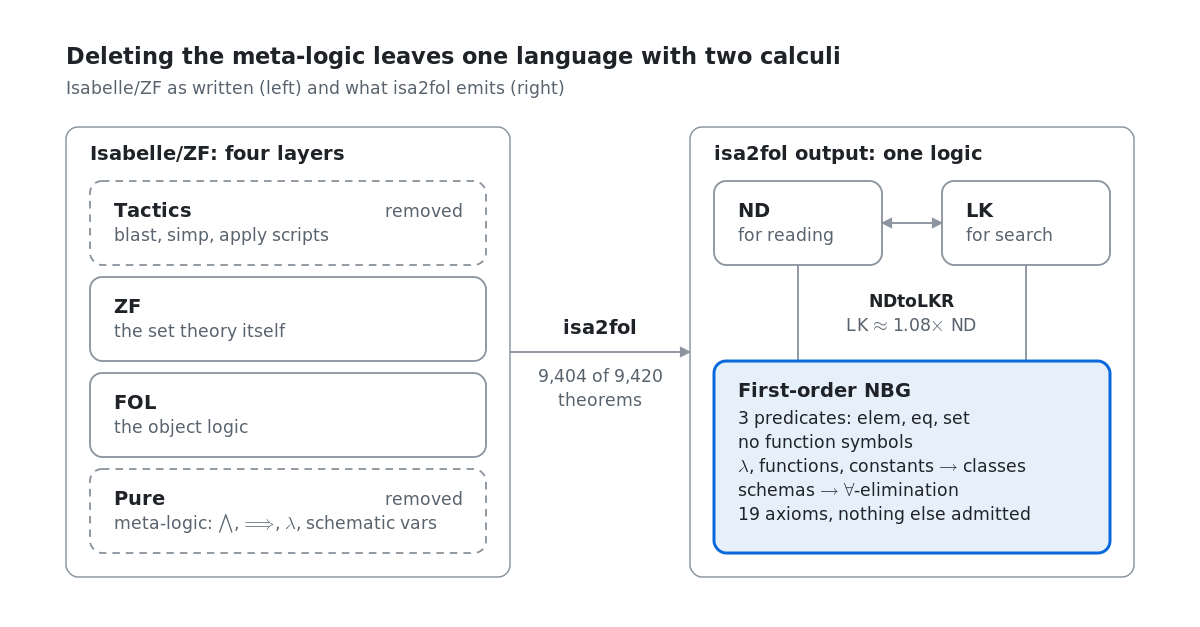
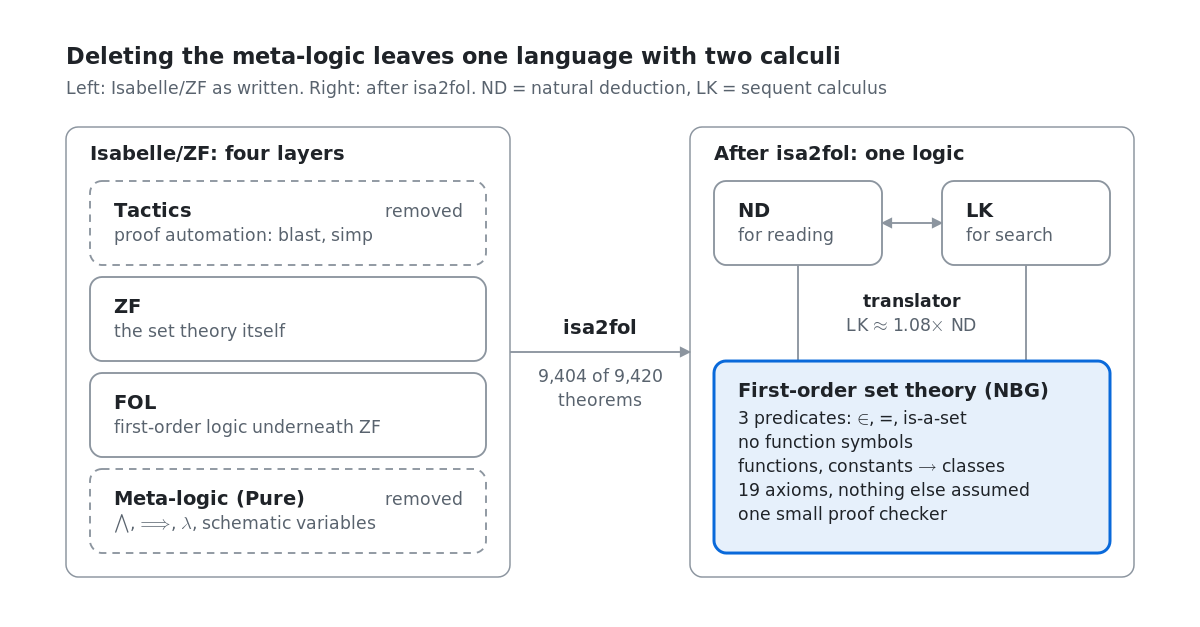
Post: plain words for readers new to the project; diagram relabelled to match

diff --git a/_posts/2026-11-03-why-first-order.md b/_posts/2026-11-03-why-first-order.md
@@ -1,31 +1,33 @@
 ---
 layout: post
 title: "Why bring Isabelle/ZF down to first-order logic?"
-description: "Deleting the meta-logic turns a proof library into data, and switching from natural deduction to the sequent calculus becomes a program. Can AI treat formulas, not words, as first-class citizens?"
+description: "Deleting the meta-logic turns a proof library into data, and classic results about first-order logic become programs you can run on it. Can AI treat formulas, not words, as first-class citizens?"
 image: /assets/why-first-order-card.png
 ---
 
-[isa2fol](https://github.com/AutoZFC/isa2fol) translates Isabelle/ZF into plain first-order logic. This post explains
-why that is worth doing, and the question it leads to.
+[Isabelle/ZF](https://isabelle.in.tum.de/) is the set theory library of the Isabelle proof assistant: thousands of
+machine-checked theorems, from ordinals and cardinals to Gödel's constructible universe.
+[isa2fol](https://github.com/AutoZFC/isa2fol) translates it into plain first-order logic. This post explains why that
+is worth doing, and the question it leads to.
 
 ## Delete the meta-logic
 
-Most proof assistants put a meta-level on top of the logic you care about. In Isabelle that is Pure, a higher-order
-meta-logic with its own ⋀, ⟹ and λ, and above it tactics such as `blast` and `simp`. That stack is great for writing
-proofs. It gets in the way when you want to treat proofs as data.
+Most proof assistants put a meta-level on top of the logic you care about. Isabelle's is a higher-order meta-logic
+(called Pure) with its own "implies" ⟹, "for all" ⋀ and λ. Above it sit tactics, proof automation commands such as
+`blast` and `simp`. That stack is great for writing proofs. It gets in the way when you want to treat proofs as data.
 
-isa2fol removes the meta-level. Every theorem becomes a first-order proof in NBG set theory: three predicates (`elem`,
-`eq`, `set`), no function symbols, and NBG's 19 axioms, nothing else admitted.
+isa2fol removes the meta-level. Every theorem becomes a first-order proof in NBG (von Neumann–Bernays–Gödel), a
+standard set theory that also has classes. There are three predicates (membership, equality and "is a set"), no
+function symbols, and nothing assumed beyond NBG's 19 axioms.
 
-- Pure's ⟹ and ⋀ become ordinary → and ∀.
-- λ-terms, functions and constants become classes.
-- A predicate variable becomes a schema, proved once with the predicate left open.
+- The meta-level ⟹ and ⋀ become ordinary → and ∀.
+- Functions, constants and anonymous functions (λ-terms) become classes.
+- A theorem about an arbitrary property P is proved once with P left open, then instantiated wherever it is used.
 
-NBG is conservative over ZFC, so nothing changes for statements about sets. A small kernel,
-[fol-zfc](https://github.com/AutoZFC/fol-zfc-comb), checks every proof. Today 9,404 of the 9,420 named theorems in
-Isabelle/ZF's eight sessions translate and check.
+NBG proves exactly the same theorems about sets as ZFC, the usual foundation of mathematics. A small, separate proof
+checker checks every translated proof. Today 9,404 of the 9,420 theorems in Isabelle/ZF translate and check.
 
-![Isabelle/ZF's four layers, with tactics and the Pure meta-logic removed, become one first-order NBG layer that both ND and LK proofs sit on]({{ "/assets/stack.svg" | relative_url }})
+![Isabelle/ZF's four layers, with tactics and the meta-logic removed, become one first-order set theory that both natural deduction and sequent calculus proofs sit on]({{ "/assets/stack.svg" | relative_url }})
 
 ### A taste of reification
 
@@ -35,8 +37,9 @@ of pairs.
 
 - `succ` becomes a class `Succ` of input–output pairs, and the term `succ(i)` becomes "the r with ⟨i, r⟩ ∈ `Succ`".
 - So `x ∈ succ(i)` becomes, roughly, `∃r. ⟨i, r⟩ ∈ Succ ∧ x ∈ r`.
-- Each such class owes two facts, proved once from the axioms: it exists, and it gives exactly one r per input.
-- Several arguments are packed into one tuple first, and a λ-term is reified the same way, right where it appears.
+- Each such class comes with two facts, proved once from the axioms: it exists, and it gives exactly one r per input.
+- Several arguments are packed into one tuple first, and an anonymous function is reified the same way, right where
+  it appears.
 
 If you write compilers, this is defunctionalization: a function becomes data, and applying it becomes a membership
 lookup.
@@ -46,22 +49,23 @@ lookup.
 First-order logic is the most studied logic there is. Once the whole library is plain first-order logic, its classic
 theorems stop being facts on paper and become translators you can run on every proof:
 
-- **Sequent calculus.** Gentzen (1935) turns natural deduction into LK, the calculus built for search.
+- **Sequent calculus.** Gentzen (1935) turns natural deduction, the usual style of written proofs, into the sequent
+  calculus (LK), which is built for search.
 - **SAT.** Herbrand's theorem reduces a first-order proof to a propositional tautology over finitely many instances,
   which is what SAT solvers check.
-- **λ-calculus.** Curry–Howard reads natural-deduction proofs as typed λ-terms (λμ for classical steps), so
-  simplifying a proof is running a program.
-- **Automated provers.** First-order logic is the native input of provers such as Vampire and E, so every statement
-  is a ready-made benchmark.
+- **λ-calculus.** Curry–Howard reads natural-deduction proofs as typed programs (with an extension for classical
+  reasoning), so simplifying a proof is running a program.
+- **Automated provers.** First-order logic is the native input of automated provers such as Vampire and E, so every
+  statement is a ready-made benchmark.
 
 Over a meta-logic full of tactics, these theorems have nothing to hold on to. Over first-order logic, each one is a
-program, and only the small kernel has to be trusted, not the program.
+program, and only the small checker has to be trusted, not the program.
 
-The first of these is built. Natural deduction (ND) is good for reading proofs; LK is good for searching for them,
-because every rule works backwards from the goal. In theory the translation covers every proof. In practice fol-zfc's
-NDtoLKR converts 99.8% of a 3,236-claim sample with no translator errors; the other 0.2% ran out of memory. An
-unmodified LK checker verifies every output. Counting each identity step (A ⊢ A) as one step, an LK proof is 1.08×
-the size of its ND proof.
+The first of these is built. Natural deduction is good for reading proofs; the sequent calculus is good for searching
+for them, because every rule works backwards from the goal. In theory the translation covers every proof. In practice
+our translator converts 99.8% of a sample of 3,236 proofs with no errors; the other 0.2% ran out of memory. A separate
+sequent-calculus checker verifies every result. The new proofs come out about the same size as the originals (1.08×),
+once each routine "A follows from A" check counts as a single step.
 
 ## The question: formulas, not words
 
